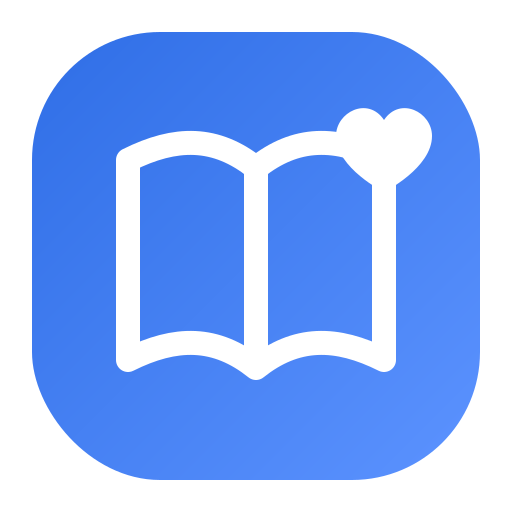
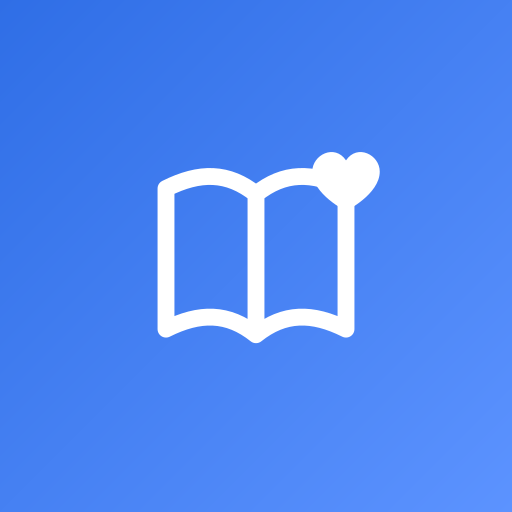
53

diff --git a/src/App.tsx b/src/App.tsx
@@ -1,7 +1,7 @@
 import { useEffect, useMemo, useState } from 'react';
 import {
-  Bell, BookOpen, Cake, CalendarDays, ClipboardCheck, Eye, EyeOff, Heart, History,
-  KeyRound, LogIn, Menu, Moon, PartyPopper, Pencil, Plus, Save, Settings, ShieldCheck, Sun, Trash2,
+  Bell, BookOpen, Cake, CalendarDays, ClipboardCheck, Download, Eye, EyeOff, Heart, History,
+  KeyRound, LogIn, Menu, Moon, PartyPopper, Pencil, Plus, Save, Settings, Share2, ShieldCheck, Smartphone, Sun, Trash2,
   UserCog, Users, X
 } from 'lucide-react';
 import { supabase } from './supabase';
@@ -177,7 +177,7 @@ function App(){
     return()=>{mounted=false;clearInterval(t);subscription.unsubscribe()}
   },[]);
 
-  useEffect(()=>{document.documentElement.classList.toggle('dark',dark);document.documentElement.setAttribute('data-theme',dark?'dark':'light');document.documentElement.style.colorScheme=dark?'dark':'light';localStorage.setItem('theme',dark?'dark':'light')},[dark]);
+  useEffect(()=>{document.documentElement.classList.toggle('dark',dark);document.documentElement.setAttribute('data-theme',dark?'dark':'light');document.documentElement.style.colorScheme=dark?'dark':'light';localStorage.setItem('theme',dark?'dark':'light');const themeMeta=document.querySelector('meta[name="theme-color"]');if(themeMeta)themeMeta.setAttribute('content',dark?'#20242b':'#2f6ee6')},[dark]);
   useEffect(()=>{
     if(!sessionEmail)return;
     const channel=supabase.channel('sabado-notifications-live').on('postgres_changes',{event:'INSERT',schema:'public',table:'sabado_notifications'},payload=>{
@@ -298,10 +298,96 @@ function App(){
 
   const doSignOut=async()=>{const token=localStorage.getItem(CUSTOM_SESSION_KEY);if(token)await supabase.rpc('sabado_username_logout',{p_token:token});localStorage.removeItem(CUSTOM_SESSION_KEY);localStorage.removeItem(LOGIN_VALIDITY_KEY);await supabase.auth.signOut();setAdmin(false);setCurrentUser(null);setSessionEmail('');setData(empty);setPage('home')};
 
-  return <div className="shell"><aside className={menu?'side open':'side'}><div className="brand"><div className="brand-logo"><BookOpen size={26}/><span className="brand-heart">♥</span></div><div className="brand-copy"><b className="brand-title"><span>Evangelização</span><span>Infanto Juvenil</span></b><span>Gestão e Coordenação</span></div></div><button className="close" onClick={()=>setMenu(false)}><X/></button>{[...nav,...extra].map(([label,key,I])=><button key={key} className={page===key?'nav active':'nav'} onClick={()=>{setPage(key);setMenu(false)}}><I size={18}/>{label}</button>)}<div className="user-session-card"><ShieldCheck size={16}/><div><b>{currentUser?.name||sessionEmail}</b><small>{admin?'Administrador':'Professor'}</small></div></div></aside><main><header><button className="hamb" onClick={()=>setMenu(true)}><Menu/></button><div className="clock"><b>{now.toLocaleTimeString('pt-BR')}</b><span>{now.toLocaleDateString('pt-BR',{weekday:'long',day:'2-digit',month:'long',year:'numeric'})}</span></div><div className="top"><button className="top-icon-btn theme-toggle" title={dark?'Usar tema claro':'Usar tema cinza escuro'} onClick={()=>setDark(!dark)}>{dark?<Sun/>:<Moon/>}</button><button className="notice-button top-icon-btn" title="Notificações" onClick={()=>setNoticeOpen(!noticeOpen)}><Bell/>{unread>0&&<span className="badge">{unread}</span>}</button><button className="ghost-btn" onClick={doSignOut}>Sair</button></div></header>
+  return <div className="shell"><aside className={menu?'side open':'side'}><div className="brand"><div className="brand-logo"><BookOpen size={26}/><span className="brand-heart">♥</span></div><div className="brand-copy"><b className="brand-title"><span>Evangelização</span><span>Infanto Juvenil</span></b><span>Gestão e Coordenação</span></div></div><button className="close" onClick={()=>setMenu(false)}><X/></button>{[...nav,...extra].map(([label,key,I])=><button key={key} className={page===key?'nav active':'nav'} onClick={()=>{setPage(key);setMenu(false)}}><I size={18}/>{label}</button>)}<InstallApp compact/><div className="user-session-card"><ShieldCheck size={16}/><div><b>{currentUser?.name||sessionEmail}</b><small>{admin?'Administrador':'Professor'}</small></div></div></aside><main><header><button className="hamb" onClick={()=>setMenu(true)}><Menu/></button><div className="clock"><b>{now.toLocaleTimeString('pt-BR')}</b><span>{now.toLocaleDateString('pt-BR',{weekday:'long',day:'2-digit',month:'long',year:'numeric'})}</span></div><div className="top"><button className="top-icon-btn theme-toggle" title={dark?'Usar tema claro':'Usar tema cinza escuro'} onClick={()=>setDark(!dark)}>{dark?<Sun/>:<Moon/>}</button><button className="notice-button top-icon-btn" title="Notificações" onClick={()=>setNoticeOpen(!noticeOpen)}><Bell/>{unread>0&&<span className="badge">{unread}</span>}</button><button className="ghost-btn" onClick={doSignOut}>Sair</button></div></header>
   {noticeOpen&&<div className="notice-panel"><div className="notice-head"><b>Notificações</b><div className="notice-tools"><button className="read-all" onClick={()=>{const ids=visibleNotifications.map(n=>n.id);const next=[...new Set([...read,...ids])];setRead(next);localStorage.setItem('readNotices',JSON.stringify(next))}}>✓ Marcar todas como lidas</button><button className="read-all" onClick={enableDeviceNotifications}>🔔 Ativar no dispositivo</button>{visibleNotifications.length>0&&<button className="delete-notifications-btn" onClick={clearNotices}><Trash2 size={15}/> Excluir notificações</button>}<button className="icon-close" onClick={()=>setNoticeOpen(false)}><X size={18}/></button></div></div>{visibleNotifications.map(n=><div className={read.includes(n.id)?'notice-item read':'notice-item'} key={n.id}><div className="notice-item-head"><b>{n.title}</b><button className="notice-delete" title="Excluir esta notificação" onClick={()=>deleteNotice(n.id)}><Trash2 size={15}/></button></div><span>{n.body}</span><small>{new Date(n.date).toLocaleString('pt-BR')}</small>{n.kind==='meeting'&&n.meetingId&&<button className="notice-action" onClick={()=>{const m=data.meetings.find(x=>x.id===n.meetingId);if(m){setMeetingNotice(m);setNoticeOpen(false)}}}>Responder à reunião</button>}</div>)}{!visibleNotifications.length&&<Empty text="Nenhuma notificação ainda."/>}</div>}
   {meetingNotice&&<Modal title="Confirmar participação" close={()=>setMeetingNotice(null)}>{admin?<><label>Responder como</label><select value={rsvpUserId} onChange={e=>setRsvpUserId(e.target.value)}><option value="">Selecione o nome</option>{data.users.filter(u=>['Professor','Administrador'].includes(u.role)&&u.status!=='Inativo').sort((a,b)=>a.name.localeCompare(b.name,'pt-BR')).map(u=><option value={u.id} key={u.id}>{u.name}</option>)}</select></>:<div className="logged-response"><ShieldCheck size={18}/><span>Respondendo como <b>{currentUser?.name}</b></span></div>}<div className="rsvp-buttons"><button className="yes-rsvp" onClick={()=>respond('yes')}>✅ Vou participar</button><button className="no-rsvp" onClick={()=>respond('no')}>❌ Não poderei participar</button></div></Modal>}
   {msg&&<div className="toast">{msg}</div>}<section className="content">{content}</section><footer>© 2026 Evangelização Infanto Juvenil · Todos os direitos reservados.</footer></main></div>
+}
+
+
+type PwaInstallPromptEvent=Event&{
+  prompt:()=>Promise<any>;
+  userChoice?:Promise<{outcome:'accepted'|'dismissed';platform?:string}>
+};
+
+function InstallApp({compact=false}:{compact?:boolean}){
+  const[deferred,setDeferred]=useState<PwaInstallPromptEvent|null>(null);
+  const[helpOpen,setHelpOpen]=useState(false);
+  const[installed,setInstalled]=useState(false);
+  const[isMobile,setIsMobile]=useState(false);
+  const[isIos,setIsIos]=useState(false);
+  const[status,setStatus]=useState('');
+
+  useEffect(()=>{
+    const standalone=window.matchMedia('(display-mode: standalone)').matches||(window.navigator as any).standalone===true;
+    setInstalled(standalone);
+    const ua=navigator.userAgent||'';
+    const ios=/iPad|iPhone|iPod/i.test(ua)||((navigator as any).platform==='MacIntel'&&(navigator as any).maxTouchPoints>1);
+    setIsIos(ios);
+    setIsMobile(ios||/Android|Mobile/i.test(ua));
+
+    const before=(event:Event)=>{
+      event.preventDefault();
+      setDeferred(event as PwaInstallPromptEvent);
+    };
+    const done=()=>{setInstalled(true);setDeferred(null);setHelpOpen(false);setStatus('Aplicativo instalado com sucesso.')};
+
+    window.addEventListener('beforeinstallprompt',before);
+    window.addEventListener('appinstalled',done);
+    return()=>{window.removeEventListener('beforeinstallprompt',before);window.removeEventListener('appinstalled',done)};
+  },[]);
+
+  if(installed||(!isMobile&&!deferred))return null;
+
+  const install=async()=>{
+    setStatus('');
+    if(deferred){
+      try{
+        await deferred.prompt();
+        const choice=deferred.userChoice?await deferred.userChoice:null;
+        if(choice?.outcome==='accepted'){
+          setStatus('Instalação iniciada.');
+        }else if(choice?.outcome==='dismissed'){
+          setStatus('Instalação cancelada. Você pode tentar novamente pelo menu do navegador.');
+        }
+      }catch{
+        setHelpOpen(true);
+      }finally{
+        setDeferred(null);
+      }
+      return;
+    }
+    setHelpOpen(true);
+  };
+
+  return <div className={compact?'pwa-install compact':'pwa-install'}>
+    <button type="button" className={compact?'pwa-install-button nav':'pwa-install-button link-btn'} onClick={install}>
+      <Download size={18}/> Instalar aplicativo
+    </button>
+    {status&&<small className="pwa-install-status">{status}</small>}
+    {helpOpen&&<Modal title={isIos?'Instalar no iPhone / iPad':'Instalar no Android'} close={()=>setHelpOpen(false)}>
+      <div className="pwa-guide">
+        <div className="pwa-guide-icon"><Smartphone size={34}/></div>
+        {isIos?<>
+          <p>Para instalar como aplicativo no iPhone ou iPad:</p>
+          <ol>
+            <li>Toque no botão <b>Compartilhar</b> <Share2 size={16}/>.</li>
+            <li>Escolha <b>Adicionar à Tela de Início</b>.</li>
+            <li>Confirme em <b>Adicionar</b>.</li>
+          </ol>
+          <small>Depois, abra pelo ícone “Evangelização” na tela inicial. O sistema abrirá em modo aplicativo, sem a barra normal do navegador.</small>
+        </>:<>
+          <p>Seu navegador não exibiu o instalador automático. No Android:</p>
+          <ol>
+            <li>Abra o menu <b>⋮</b> do navegador.</li>
+            <li>Toque em <b>Instalar app</b> ou <b>Adicionar à tela inicial</b>.</li>
+            <li>Confirme a instalação.</li>
+          </ol>
+          <small>No Chrome compatível, este botão normalmente abre o instalador do Android automaticamente.</small>
+        </>}
+      </div>
+    </Modal>}
+  </div>
 }
 
 function LoginPage({adminOnly,onSuccess}:{adminOnly:boolean;onSuccess:(session:any)=>Promise<void>}){
@@ -366,7 +452,7 @@ function LoginPage({adminOnly,onSuccess}:{adminOnly:boolean;onSuccess:(session:a
     finally{setPending(false)}
   };
 
-  return <div className="login-page"><div className="login-card teacher-login"><div className="login-brand"><div className="brand-logo"><BookOpen size={28}/><span className="brand-heart">♥</span></div><div><b>Evangelização Infanto Juvenil</b><span>Gestão e Coordenação</span></div></div><h1>{adminOnly?'Administrador':mode==='login'?'Entrar no sistema':'Criar minha senha'}</h1><p className="login-subtitle">{adminOnly?'Entre para liberar Administração e Auditoria.':mode==='login'?'Digite seu usuário e senha. Depois de entrar, este aparelho ficará liberado por 30 dias.':'No primeiro acesso, informe o seu usuário e crie uma senha com pelo menos 6 caracteres.'}</p>{!adminOnly&&mode==='login'&&<div className="first-access-help"><b>Primeiro acesso:</b> Clique no botão <strong>"Primeiro acesso? Criar senha"</strong>, informe o seu nome e cadastre uma senha com <strong>pelo menos 6 caracteres</strong>. Ela pode conter letras, números e caracteres especiais. Em seguida, clique em <strong>"Criar senha"</strong>.</div>}<input value={identity} disabled={adminOnly} onChange={e=>setIdentity(e.target.value)} type={adminOnly?'email':'text'} autoCapitalize="none" placeholder={adminOnly?'E-mail do administrador':'Usuário — ex.: Fernanda'}/><div className="password-field"><input value={password} onChange={e=>setPassword(e.target.value)} type={showPassword?'text':'password'} placeholder={mode==='login'?'Senha':'Crie uma senha'}/><button type="button" className="password-toggle" aria-label={showPassword?'Ocultar senha':'Mostrar senha'} title={showPassword?'Ocultar senha':'Mostrar senha'} onClick={()=>setShowPassword(v=>!v)}>{showPassword?<EyeOff size={18}/>:<Eye size={18}/>}</button></div>{mode==='signup'&&!adminOnly&&<div className="password-field"><input value={confirmPassword} onChange={e=>setConfirmPassword(e.target.value)} type={showConfirmPassword?'text':'password'} placeholder="Confirmar senha"/><button type="button" className="password-toggle" aria-label={showConfirmPassword?'Ocultar senha':'Mostrar senha'} title={showConfirmPassword?'Ocultar senha':'Mostrar senha'} onClick={()=>setShowConfirmPassword(v=>!v)}>{showConfirmPassword?<EyeOff size={18}/>:<Eye size={18}/>}</button></div>}<button className="primary login-main-button" disabled={pending} onClick={go}>{pending?'Aguarde...':mode==='login'?<><LogIn size={18}/> Entrar</>:<><KeyRound size={18}/> Criar senha</>}</button>{!adminOnly&&<><button className="link-btn" disabled={pending} onClick={()=>{setMode(mode==='login'?'signup':'login');setPassword('');setConfirmPassword('');setShowPassword(false);setShowConfirmPassword(false);setMsg('')}}>{mode==='login'?'Primeiro acesso? Criar senha':'Já criei minha senha'}</button>{mode==='login'&&<button className="link-btn" onClick={()=>setMsg('Se esqueceu a senha, peça ao Administrador para liberar a criação de uma nova senha.')}>Esqueci minha senha</button>}</>}{adminOnly&&<button className="link-btn" onClick={()=>{window.location.href='/'}}>Voltar para login dos usuários</button>}{msg&&<small className="login-message">{msg}</small>}</div>{roleChoice&&<Modal title="Como deseja entrar?" close={()=>setRoleChoice(null)}><p className="role-choice-text">Seu usuário <b>Andrey</b> possui dois tipos de acesso. Escolha como deseja entrar agora:</p><div className="role-choice-buttons"><button className="role-choice professor" disabled={pending} onClick={()=>chooseRole('professor')}><Users size={22}/><span><b>Professor</b><small>Acesso conforme as permissões de professor</small></span></button><button className="role-choice admin" disabled={pending} onClick={()=>chooseRole('admin')}><ShieldCheck size={22}/><span><b>Administrador</b><small>Acesso completo ao sistema</small></span></button></div></Modal>}</div>
+  return <div className="login-page"><div className="login-card teacher-login"><div className="login-brand"><div className="brand-logo"><BookOpen size={28}/><span className="brand-heart">♥</span></div><div><b>Evangelização Infanto Juvenil</b><span>Gestão e Coordenação</span></div></div><h1>{adminOnly?'Administrador':mode==='login'?'Entrar no sistema':'Criar minha senha'}</h1><p className="login-subtitle">{adminOnly?'Entre para liberar Administração e Auditoria.':mode==='login'?'Digite seu usuário e senha. Depois de entrar, este aparelho ficará liberado por 30 dias.':'No primeiro acesso, informe o seu usuário e crie uma senha com pelo menos 6 caracteres.'}</p>{!adminOnly&&mode==='login'&&<div className="first-access-help"><b>Primeiro acesso:</b> Clique no botão <strong>"Primeiro acesso? Criar senha"</strong>, informe o seu nome e cadastre uma senha com <strong>pelo menos 6 caracteres</strong>. Ela pode conter letras, números e caracteres especiais. Em seguida, clique em <strong>"Criar senha"</strong>.</div>}<input value={identity} disabled={adminOnly} onChange={e=>setIdentity(e.target.value)} type={adminOnly?'email':'text'} autoCapitalize="none" placeholder={adminOnly?'E-mail do administrador':'Usuário — ex.: Fernanda'}/><div className="password-field"><input value={password} onChange={e=>setPassword(e.target.value)} type={showPassword?'text':'password'} placeholder={mode==='login'?'Senha':'Crie uma senha'}/><button type="button" className="password-toggle" aria-label={showPassword?'Ocultar senha':'Mostrar senha'} title={showPassword?'Ocultar senha':'Mostrar senha'} onClick={()=>setShowPassword(v=>!v)}>{showPassword?<EyeOff size={18}/>:<Eye size={18}/>}</button></div>{mode==='signup'&&!adminOnly&&<div className="password-field"><input value={confirmPassword} onChange={e=>setConfirmPassword(e.target.value)} type={showConfirmPassword?'text':'password'} placeholder="Confirmar senha"/><button type="button" className="password-toggle" aria-label={showConfirmPassword?'Ocultar senha':'Mostrar senha'} title={showConfirmPassword?'Ocultar senha':'Mostrar senha'} onClick={()=>setShowConfirmPassword(v=>!v)}>{showConfirmPassword?<EyeOff size={18}/>:<Eye size={18}/>}</button></div>}<button className="primary login-main-button" disabled={pending} onClick={go}>{pending?'Aguarde...':mode==='login'?<><LogIn size={18}/> Entrar</>:<><KeyRound size={18}/> Criar senha</>}</button>{!adminOnly&&<><button className="link-btn" disabled={pending} onClick={()=>{setMode(mode==='login'?'signup':'login');setPassword('');setConfirmPassword('');setShowPassword(false);setShowConfirmPassword(false);setMsg('')}}>{mode==='login'?'Primeiro acesso? Criar senha':'Já criei minha senha'}</button>{mode==='login'&&<button className="link-btn" onClick={()=>setMsg('Se esqueceu a senha, peça ao Administrador para liberar a criação de uma nova senha.')}>Esqueci minha senha</button>}</>}{adminOnly&&<button className="link-btn" onClick={()=>{window.location.href='/'}}>Voltar para login dos usuários</button>}{msg&&<small className="login-message">{msg}</small>}<InstallApp/></div>{roleChoice&&<Modal title="Como deseja entrar?" close={()=>setRoleChoice(null)}><p className="role-choice-text">Seu usuário <b>Andrey</b> possui dois tipos de acesso. Escolha como deseja entrar agora:</p><div className="role-choice-buttons"><button className="role-choice professor" disabled={pending} onClick={()=>chooseRole('professor')}><Users size={22}/><span><b>Professor</b><small>Acesso conforme as permissões de professor</small></span></button><button className="role-choice admin" disabled={pending} onClick={()=>chooseRole('admin')}><ShieldCheck size={22}/><span><b>Administrador</b><small>Acesso completo ao sistema</small></span></button></div></Modal>}</div>
 }
 
 function AccessBlocked({message,email}:{message:string;email:string}){

diff --git a/src/index.css b/src/index.css
@@ -1140,3 +1140,37 @@ html.dark .access-instructions span{color:#fff!important}
 }
 .first-access-help b,.first-access-help strong{font-weight:700}
 html.dark .first-access-help{color:#fff}
+
+
+/* V53 — PWA Android + iOS */
+.pwa-install{display:grid;gap:7px;margin-top:2px}
+.pwa-install-button{width:100%!important}
+.pwa-install.compact{margin:12px 0 0}
+.pwa-install.compact .pwa-install-button{
+  width:100%!important;
+  justify-content:flex-start!important;
+  color:var(--text)!important;
+  border-color:var(--border)!important;
+}
+.pwa-install.compact .pwa-install-button:hover{background:var(--surface-soft)!important}
+.pwa-install-status{font-size:11px;color:var(--muted);line-height:1.4}
+.pwa-guide{display:grid;gap:12px;line-height:1.55}
+.pwa-guide-icon{
+  width:62px;height:62px;border-radius:16px;
+  display:grid;place-items:center;margin:0 auto 2px;
+  background:var(--blue-soft);color:var(--blue)
+}
+.pwa-guide p{margin:0}
+.pwa-guide ol{margin:0;padding-left:22px;display:grid;gap:9px}
+.pwa-guide li{padding-left:3px}
+.pwa-guide li svg{vertical-align:-3px}
+.pwa-guide small{color:var(--muted);line-height:1.5}
+html.dark .pwa-install.compact .pwa-install-button{color:#fff!important}
+html.dark .pwa-guide small{color:#fff!important}
+@media(display-mode:standalone){
+  .pwa-install{display:none!important}
+}
+@media(max-width:700px){
+  .pwa-install:not(.compact){margin-top:2px}
+  .pwa-install-button{min-height:44px!important}
+}

diff --git a/public/sw.js b/public/sw.js
@@ -1,22 +1,26 @@
-const CACHE_PREFIX='evangelizacao-pwa-';
+const SW_VERSION = 'eij-v53-online-only';
 
 self.addEventListener('install', () => {
   self.skipWaiting();
 });
 
-self.addEventListener('activate', event => {
+self.addEventListener('activate', (event) => {
   event.waitUntil((async () => {
-    const keys = await caches.keys();
-    await Promise.all(keys.filter(k => k.startsWith(CACHE_PREFIX)).map(k => caches.delete(k)));
+    // Remove caches left by older PWA attempts so the app always loads the newest online version.
+    if ('caches' in self) {
+      const keys = await caches.keys();
+      await Promise.all(keys.map((key) => caches.delete(key)));
+    }
     await self.clients.claim();
   })());
 });
 
-self.addEventListener('fetch', event => {
-  const req = event.request;
-  if (req.method !== 'GET') return;
+self.addEventListener('fetch', (event) => {
+  if (event.request.method !== 'GET') return;
+  // This PWA intentionally stays online-first. It does not cache Supabase data or old app bundles.
+  event.respondWith(fetch(event.request));
+});
 
-  // Aplicativo ONLINE: sempre busca a versão atual na internet.
-  // Sem cache/fallback offline.
-  event.respondWith(fetch(req));
+self.addEventListener('message', (event) => {
+  if (event.data === 'SKIP_WAITING') self.skipWaiting();
 });

diff --git a/index.html b/index.html
@@ -4,13 +4,20 @@
   <meta charset="UTF-8" />
   <meta name="viewport" content="width=device-width, initial-scale=1.0" />
   <meta name="color-scheme" content="light dark" />
-  <meta name="theme-color" content="#f4f7fb" />
+  <meta name="theme-color" content="#2f6ee6" />
+  <meta name="mobile-web-app-capable" content="yes" />
+  <meta name="apple-mobile-web-app-capable" content="yes" />
+  <meta name="apple-mobile-web-app-status-bar-style" content="black-translucent" />
+  <meta name="apple-mobile-web-app-title" content="Evangelização" />
+  <meta name="format-detection" content="telephone=no" />
   <title>Evangelização Infanto Juvenil – Gestão e Coordenação</title>
 
   <link rel="icon" type="image/x-icon" href="/favicon.ico?v=24" />
   <link rel="icon" type="image/png" sizes="64x64" href="/favicon.png?v=24" />
   <link rel="icon" type="image/svg+xml" href="/favicon.svg?v=24" />
   <link rel="shortcut icon" href="/favicon.ico?v=24" />
+  <link rel="manifest" href="/manifest.webmanifest?v=53" />
+  <link rel="apple-touch-icon" sizes="180x180" href="/apple-touch-icon.png?v=53" />
 <meta name="application-name" content="Evangelização Infanto Juvenil" />
 <script>
     try {

diff --git a/src/main.tsx b/src/main.tsx
@@ -6,3 +6,23 @@ import './index.css';
 createRoot(document.getElementById('root')!).render(
   <StrictMode><App /></StrictMode>
 );
+
+
+async function registerPwa() {
+  if (!('serviceWorker' in navigator)) return;
+  try {
+    const registration = await navigator.serviceWorker.register('/sw.js', {
+      scope: '/',
+      updateViaCache: 'none'
+    });
+    registration.update().catch(() => {});
+  } catch (error) {
+    console.warn('PWA: não foi possível registrar o service worker.', error);
+  }
+}
+
+if (document.readyState === 'complete') {
+  registerPwa();
+} else {
+  window.addEventListener('load', registerPwa, { once: true });
+}

diff --git a/README.md b/README.md
@@ -285,3 +285,24 @@ A correção já foi aplicada no Supabase. Registros criados antes desta correç
 
 - Adicionado ícone de olho na tela de login e na tela de criação de senha.
 - Agora é possível visualizar a senha antes de entrar ou confirmar o primeiro acesso.
+
+
+## V53 — PWA Android e iOS
+
+O aplicativo instalável voltou, agora em modo **online-first**, sem cache dos dados do sistema e sem modo offline antigo.
+
+### Android
+- Manifest completo com ícones 192/512 e ícone maskable.
+- Botão **Instalar aplicativo** dentro do sistema.
+- Em Chrome/Chromium compatível, o botão abre o instalador nativo quando `beforeinstallprompt` estiver disponível.
+- Se o navegador não oferecer o prompt automático, o sistema mostra instruções para usar **Instalar app / Adicionar à tela inicial**.
+
+### iPhone / iPad
+- `apple-touch-icon` de 180×180.
+- Metadados `apple-mobile-web-app-*`.
+- Ao tocar em **Instalar aplicativo**, o sistema mostra:
+  **Compartilhar → Adicionar à Tela de Início → Adicionar**.
+- Ao abrir pelo ícone, funciona em janela standalone.
+
+### Importante
+Esta versão não armazena uma cópia offline do sistema. O service worker é propositalmente online-only e apaga caches antigos de tentativas anteriores de PWA para reduzir problemas de versão desatualizada.
